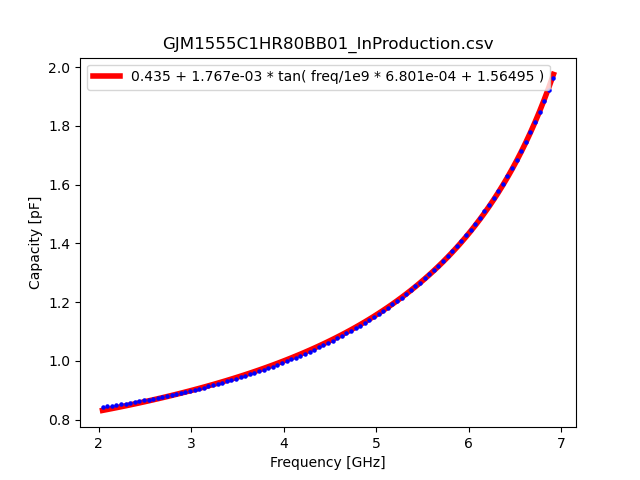
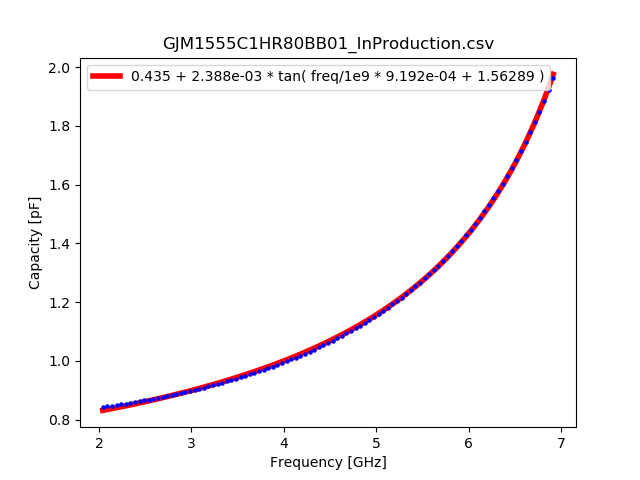
update

diff --git a/README.md b/README.md
@@ -5,19 +5,31 @@ note : use only simsurfing data
 
 | label | value | func |
 | ---   | ---   | --- |
-| [GJM1555C1H1R0BB01_InProduction.csv](img/GJM1555C1H1R0BB01_InProduction.png) | 1.0pF | `0.446 + 7.698e-03 * tan( freq/1e9 * 2.289e-03 + 1.55331 )` |
-| [GJM1555C1H1R1BB01_InProduction.csv](img/GJM1555C1H1R1BB01_InProduction.png) | 1.1pF | `0.508 + 7.055e-03 * tan( freq/1e9 * 1.859e-03 + 1.55603 )` |
-| [GJM1555C1H1R2BB01_InProduction.csv](img/GJM1555C1H1R2BB01_InProduction.png) | 1.2pF | `0.515 + 9.030e-03 * tan( freq/1e9 * 2.170e-03 + 1.55418 )` |
-| [GJM1555C1H1R3BB01_InProduction.csv](img/GJM1555C1H1R3BB01_InProduction.png) | 1.3pF | `0.516 + 1.642e-02 * tan( freq/1e9 * 3.638e-03 + 1.54391 )` |
-| [GJM1555C1H1R4BB01_InProduction.csv](img/GJM1555C1H1R4BB01_InProduction.png) | 1.4pF | `0.530 + 2.300e-02 * tan( freq/1e9 * 4.745e-03 + 1.53640 )` |
-| [GJM1555C1H1R7BB01_InProduction.csv](img/GJM1555C1H1R7BB01_InProduction.png) | 1.7pF | `0.737 + 6.081e-02 * tan( freq/1e9 * 1.231e-02 + 1.48854 )` |
+| [GJM1555C1H1R0BB01_InProduction.csv](img/GJM1555C1H1R0BB01_InProduction.png) | 1.0pF | `0.446 + 7.759e-03 * tan( freq/1e9 * 2.307e-03 + 1.55317 )` |
+| [GJM1555C1H1R1BB01_InProduction.csv](img/GJM1555C1H1R1BB01_InProduction.png) | 1.1pF | `0.508 + 7.715e-03 * tan( freq/1e9 * 2.033e-03 + 1.55464 )` |
+| [GJM1555C1H1R2BB01_InProduction.csv](img/GJM1555C1H1R2BB01_InProduction.png) | 1.2pF | `0.515 + 9.215e-03 * tan( freq/1e9 * 2.215e-03 + 1.55384 )` |
+| [GJM1555C1H1R3BB01_InProduction.csv](img/GJM1555C1H1R3BB01_InProduction.png) | 1.3pF | `0.516 + 1.648e-02 * tan( freq/1e9 * 3.652e-03 + 1.54382 )` |
+| [GJM1555C1H1R4BB01_InProduction.csv](img/GJM1555C1H1R4BB01_InProduction.png) | 1.4pF | `0.530 + 2.301e-02 * tan( freq/1e9 * 4.747e-03 + 1.53639 )` |
+| [GJM1555C1H1R5BB01_InProduction.csv](img/GJM1555C1H1R5BB01_InProduction.png) | 1.5pF | `0.500 + 5.973e-02 * tan( freq/1e9 * 1.150e-02 + 1.49012 )` |
+| [GJM1555C1H1R6BB01_InProduction.csv](img/GJM1555C1H1R6BB01_InProduction.png) | 1.6pF | `0.527 + 6.705e-02 * tan( freq/1e9 * 1.248e-02 + 1.48605 )` |
+| [GJM1555C1H1R7BB01_InProduction.csv](img/GJM1555C1H1R7BB01_InProduction.png) | 1.7pF | `0.737 + 6.072e-02 * tan( freq/1e9 * 1.229e-02 + 1.48867 )` |
 | [GJM1555C1H1R8BB01_InProduction.csv](img/GJM1555C1H1R8BB01_InProduction.png) | 1.8pF | `0.756 + 6.549e-02 * tan( freq/1e9 * 1.264e-02 + 1.48844 )` |
-| [GJM1555C1H1R9BB01_InProduction.csv](img/GJM1555C1H1R9BB01_InProduction.png) | 1.9pF | `0.774 + 6.378e-02 * tan( freq/1e9 * 1.178e-02 + 1.49582 )` |
-| [GJM1555C1H2R0BB01_InProduction.csv](img/GJM1555C1H2R0BB01_InProduction.png) | 2.0pF | `0.728 + 6.879e-02 * tan( freq/1e9 * 1.165e-02 + 1.49821 )` |
-| [GJM1555C1H2R1BB01_InProduction.csv](img/GJM1555C1H2R1BB01_InProduction.png) | 2.1pF | `0.754 + 8.282e-02 * tan( freq/1e9 * 1.360e-02 + 1.48800 )` |
-| [GJM1555C1H2R2BB01_InProduction.csv](img/GJM1555C1H2R2BB01_InProduction.png) | 2.2pF | `0.785 + 7.866e-02 * tan( freq/1e9 * 1.256e-02 + 1.49598 )` |
-| [GJM1555C1HR40BB01_InProduction.csv](img/GJM1555C1HR40BB01_InProduction.png) | 0.4pF | `0.292 + 9.407e-04 * tan( freq/1e9 * 9.301e-04 + 1.56081 )` |
-| [GJM1555C1HR50BB01_InProduction.csv](img/GJM1555C1HR50BB01_InProduction.png) | 0.5pF | `0.355 + 7.673e-04 * tan( freq/1e9 * 5.960e-04 + 1.56466 )` |
-| [GJM1555C1HR60BB01_InProduction.csv](img/GJM1555C1HR60BB01_InProduction.png) | 0.6pF | `0.397 + 7.269e-04 * tan( freq/1e9 * 4.257e-04 + 1.56661 )` |
-| [GJM1555C1HR70BB01_InProduction.csv](img/GJM1555C1HR70BB01_InProduction.png) | 0.7pF | `0.408 + 1.764e-03 * tan( freq/1e9 * 7.980e-04 + 1.56360 )` |
-| [GJM1555C1HR80BB01_InProduction.csv](img/GJM1555C1HR80BB01_InProduction.png) | 0.8pF | `0.435 + 1.767e-03 * tan( freq/1e9 * 6.801e-04 + 1.56495 )` |
+| [GJM1555C1H1R9BB01_InProduction.csv](img/GJM1555C1H1R9BB01_InProduction.png) | 1.9pF | `0.774 + 6.380e-02 * tan( freq/1e9 * 1.179e-02 + 1.49580 )` |
+| [GJM1555C1H2R0BB01_InProduction.csv](img/GJM1555C1H2R0BB01_InProduction.png) | 2.0pF | `0.728 + 6.880e-02 * tan( freq/1e9 * 1.165e-02 + 1.49819 )` |
+| [GJM1555C1H2R1BB01_InProduction.csv](img/GJM1555C1H2R1BB01_InProduction.png) | 2.1pF | `0.754 + 8.282e-02 * tan( freq/1e9 * 1.360e-02 + 1.48801 )` |
+| [GJM1555C1H2R2BB01_InProduction.csv](img/GJM1555C1H2R2BB01_InProduction.png) | 2.2pF | `0.785 + 7.863e-02 * tan( freq/1e9 * 1.256e-02 + 1.49601 )` |
+| [GJM1555C1H2R3BB01_InProduction.csv](img/GJM1555C1H2R3BB01_InProduction.png) | 2.3pF | `1.099 + 6.886e-02 * tan( freq/1e9 * 1.348e-02 + 1.49406 )` |
+| [GJM1555C1H2R4BB01_InProduction.csv](img/GJM1555C1H2R4BB01_InProduction.png) | 2.4pF | `1.133 + 7.643e-02 * tan( freq/1e9 * 1.443e-02 + 1.49005 )` |
+| [GJM1555C1H2R5BB01_InProduction.csv](img/GJM1555C1H2R5BB01_InProduction.png) | 2.5pF | `1.160 + 7.962e-02 * tan( freq/1e9 * 1.450e-02 + 1.49096 )` |
+| [GJM1555C1HR10BB01_InProduction.csv](img/GJM1555C1HR10BB01_InProduction.png) | 0.1pF | `0.092 + 3.410e-05 * tan( freq/1e9 * 3.710e-04 + 1.56597 )` |
+| [GJM1555C1HR20BB01_InProduction.csv](img/GJM1555C1HR20BB01_InProduction.png) | 0.2pF | `0.170 + 2.088e-04 * tan( freq/1e9 * 6.529e-04 + 1.56287 )` |
+| [GJM1555C1HR30BB01_InProduction.csv](img/GJM1555C1HR30BB01_InProduction.png) | 0.3pF | `0.241 + 4.287e-04 * tan( freq/1e9 * 7.254e-04 + 1.56251 )` |
+| [GJM1555C1HR40BB01_InProduction.csv](img/GJM1555C1HR40BB01_InProduction.png) | 0.4pF | `0.292 + 3.791e-04 * tan( freq/1e9 * 3.748e-04 + 1.56677 )` |
+| [GJM1555C1HR50BB01_InProduction.csv](img/GJM1555C1HR50BB01_InProduction.png) | 0.5pF | `0.355 + 7.252e-04 * tan( freq/1e9 * 5.633e-04 + 1.56500 )` |
+| [GJM1555C1HR60BB01_InProduction.csv](img/GJM1555C1HR60BB01_InProduction.png) | 0.6pF | `0.397 + 6.110e-04 * tan( freq/1e9 * 3.578e-04 + 1.56728 )` |
+| [GJM1555C1HR70BB01_InProduction.csv](img/GJM1555C1HR70BB01_InProduction.png) | 0.7pF | `0.408 + 2.152e-03 * tan( freq/1e9 * 9.738e-04 + 1.56202 )` |
+| [GJM1555C1HR80BB01_InProduction.csv](img/GJM1555C1HR80BB01_InProduction.png) | 0.8pF | `0.435 + 2.388e-03 * tan( freq/1e9 * 9.192e-04 + 1.56289 )` |
+| [GJM1555C1HR90BB01_InProduction.csv](img/GJM1555C1HR90BB01_InProduction.png) | 0.9pF | `0.462 + 4.369e-03 * tan( freq/1e9 * 1.486e-03 + 1.55859 )` |
+| [GRM1554C1HR40BA01_NotRecommended.csv](img/GRM1554C1HR40BA01_NotRecommended.png) | 0.4pF | `0.277 + 4.051e-04 * tan( freq/1e9 * 3.735e-04 + 1.56699 )` |
+| [GRM1554C1HR60BA01_NotRecommended.csv](img/GRM1554C1HR60BA01_NotRecommended.png) | 0.6pF | `0.349 + 1.039e-03 * tan( freq/1e9 * 5.526e-04 + 1.56586 )` |
+| [GRM1554C1HR80BA01_NotRecommended.csv](img/GRM1554C1HR80BA01_NotRecommended.png) | 0.8pF | `0.390 + 3.855e-03 * tan( freq/1e9 * 1.466e-03 + 1.55916 )` |
